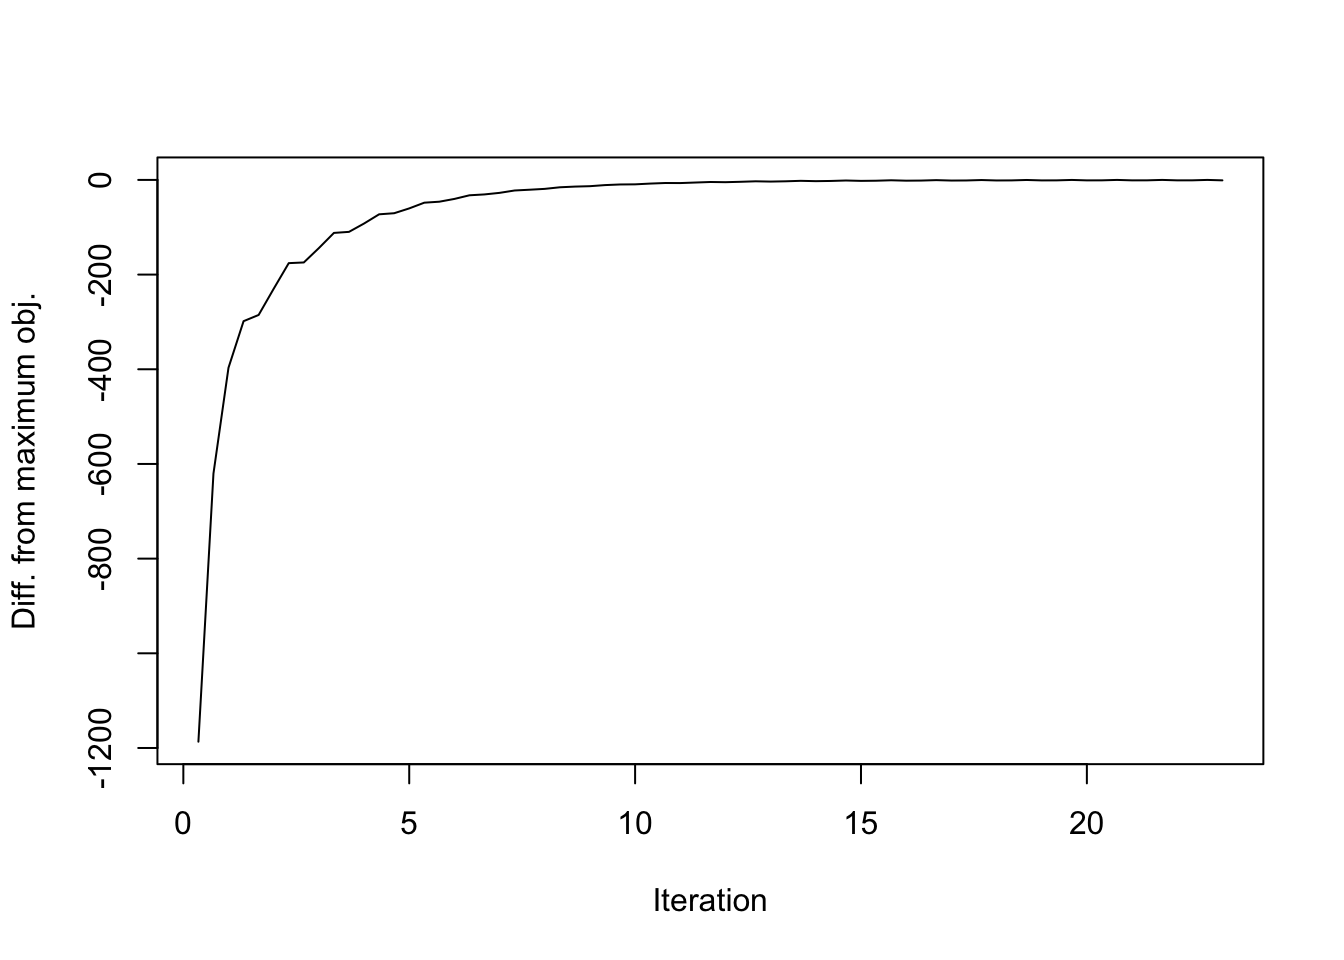
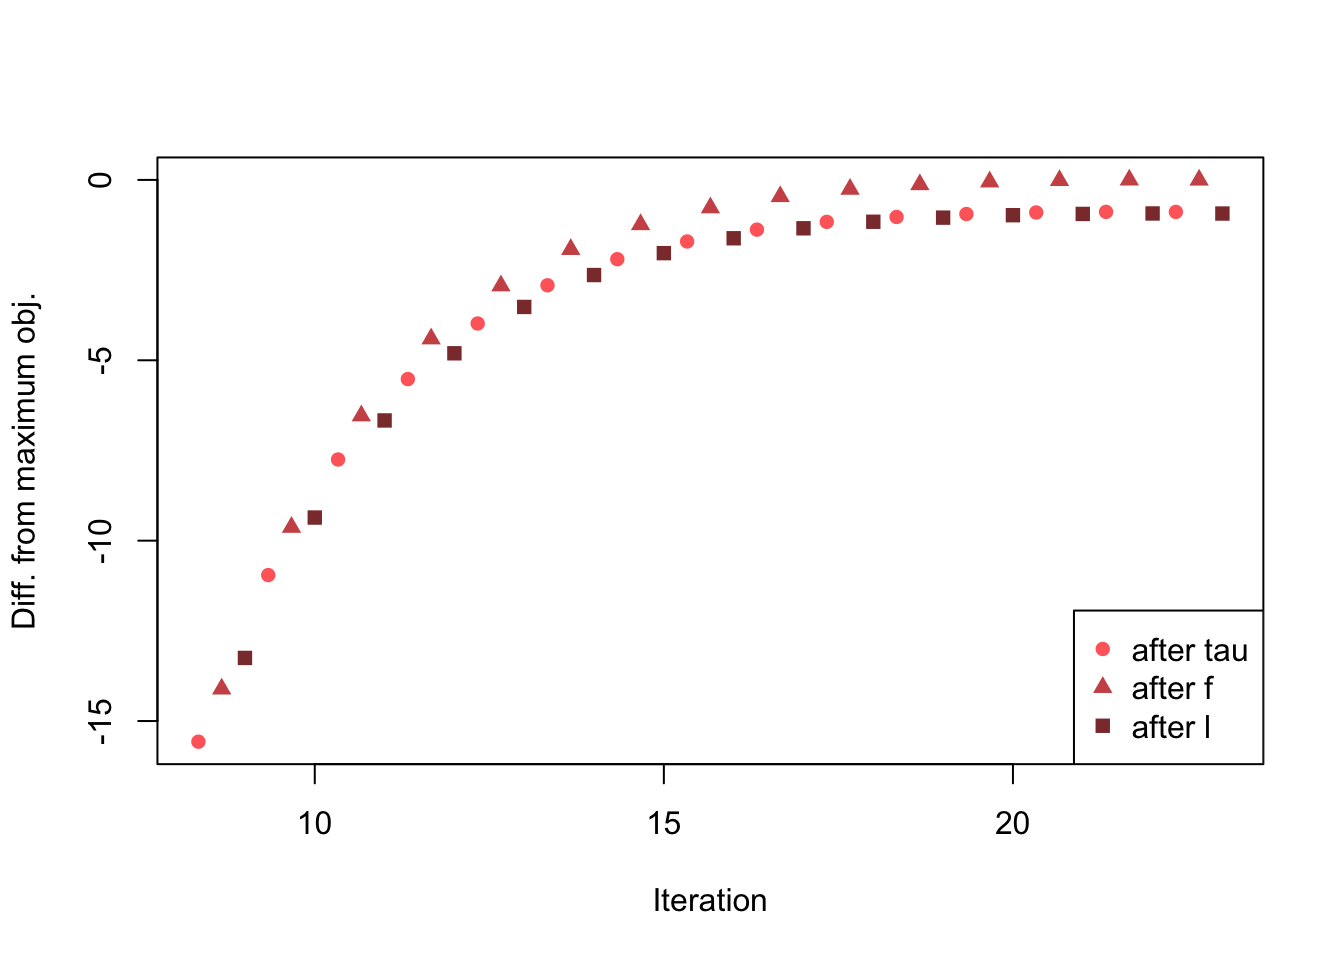
Build site.

diff --git a/docs/objective.html b/docs/objective.html
@@ -12,7 +12,7 @@
 <meta name="author" content="Jason Willwerscheid" />
 
 
-<title>Decreases in the Objective Function</title>
+<title>Decreases in the FLASH objective function</title>
 
 <script src="site_libs/jquery-1.11.3/jquery.min.js"></script>
 <meta name="viewport" content="width=device-width, initial-scale=1" />
@@ -310,14 +310,14 @@ div.section {
 
 
 
-<h1 class="title toc-ignore">Decreases in the Objective Function</h1>
+<h1 class="title toc-ignore">Decreases in the FLASH objective function</h1>
 <h4 class="author"><em>Jason Willwerscheid</em></h4>
 <h4 class="date"><em>7/14/2018</em></h4>
 
 </div>
 
 
-<p><strong>Last updated:</strong> 2018-07-16</p>
+<p><strong>Last updated:</strong> 2018-07-20</p>
 <strong>workflowr checks:</strong> <small>(Click a bullet for more information)</small>
 <ul>
 <li>
@@ -341,7 +341,7 @@ div.section {
 </details>
 </li>
 <li>
-<p><details> <summary> <strong style="color:blue;">✔</strong> <strong>Repository version:</strong> <a href="https://github.com/willwerscheid/FLASHvestigations/tree/055d5723d07ea68bc92863c501b728048beb0aed" target="_blank">055d572</a> </summary></p>
+<p><details> <summary> <strong style="color:blue;">✔</strong> <strong>Repository version:</strong> <a href="https://github.com/willwerscheid/FLASHvestigations/tree/7a2c0bada83c8f232dd58ee3f0217a98cca87154" target="_blank">7a2c0ba</a> </summary></p>
 Great! You are using Git for version control. Tracking code development and connecting the code version to the results is critical for reproducibility. The version displayed above was the version of the Git repository at the time these results were generated. <br><br> Note that you need to be careful to ensure that all relevant files for the analysis have been committed to Git prior to generating the results (you can use <code>wflow_publish</code> or <code>wflow_git_commit</code>). workflowr only checks the R Markdown file, but you know if there are other scripts or data files that it depends on. Below is the status of the Git repository when the results were generated:
 <pre><code>
 Ignored files:
@@ -350,6 +350,9 @@ Ignored files:
     Ignored:    .Rproj.user/
     Ignored:    docs/.DS_Store
     Ignored:    docs/figure/.DS_Store
+
+Unstaged changes:
+    Modified:   analysis/flash_em.Rmd
 
 </code></pre>
 Note that any generated files, e.g. HTML, png, CSS, etc., are not included in this status report because it is ok for generated content to have uncommitted changes. </details>
@@ -378,6 +381,40 @@ Message
 </tr>
 </thead>
 <tbody>
+<tr>
+<td style="text-align:left;">
+Rmd
+</td>
+<td style="text-align:left;">
+<a href="https://github.com/willwerscheid/FLASHvestigations/blob/7a2c0bada83c8f232dd58ee3f0217a98cca87154/analysis/objective.Rmd" target="_blank">7a2c0ba</a>
+</td>
+<td style="text-align:left;">
+Jason Willwerscheid
+</td>
+<td style="text-align:left;">
+2018-07-20
+</td>
+<td style="text-align:left;">
+wflow_publish(“analysis/objective.Rmd”)
+</td>
+</tr>
+<tr>
+<td style="text-align:left;">
+html
+</td>
+<td style="text-align:left;">
+<a href="https://cdn.rawgit.com/willwerscheid/FLASHvestigations/456972ed5490a92bcc8af1a9916cdbf3f32d9711/docs/objective.html" target="_blank">456972e</a>
+</td>
+<td style="text-align:left;">
+Jason Willwerscheid
+</td>
+<td style="text-align:left;">
+2018-07-16
+</td>
+<td style="text-align:left;">
+Build site.
+</td>
+</tr>
 <tr>
 <td style="text-align:left;">
 Rmd
@@ -506,8 +543,8 @@ wflow_publish(“analysis/objective.Rmd”)
 <h2>Introduction</h2>
 <p>Here I begin to look into why the FLASH objective function can decrease after an iteration.</p>
 </div>
-<div id="illustration-of-problem" class="section level2">
-<h2>Illustration of problem</h2>
+<div id="example" class="section level2">
+<h2>Example</h2>
 <p>I’m using the “strong” tests from the MASH paper GTEx dataset. The first problem appears when fitting the fourth factor. Notice that in the final iteration, the objective decreases by a very small amount and a warning is displayed.</p>
 <pre class="r"><code># devtools::install_github(&quot;stephenslab/flashr&quot;, ref=&quot;trackObj&quot;)
 devtools::load_all(&quot;/Users/willwerscheid/GitHub/flashr&quot;)</code></pre>
@@ -557,9 +594,9 @@ more details.</code></pre>
 <pre><code>objective from keeping factor:-1297148.033256</code></pre>
 <pre><code>nullcheck complete, objective:-1297148.033256</code></pre>
 </div>
-<div id="analysis" class="section level2">
-<h2>Analysis</h2>
-<p>A more granular tracking of the objective function reveals a larger problem. Recall that there are three steps in each iteration: updating the precision matrix, updating the factors (via the prior <span class="math inline">\(g_f\)</span>), and updating the loadings (via <span class="math inline">\(g_l\)</span>). Plotting the objective after each step rather than each iteration reveals a sawtooth pattern. (See branch <code>trackObj</code>, file <code>r1_opt.R</code> for the code used to obtain these results.)</p>
+<div id="illustration-of-problem" class="section level2">
+<h2>Illustration of problem</h2>
+<p>A more granular tracking of the objective function reveals a larger problem. Recall that there are three steps in each iteration: updating the precision matrix, updating the factors (via the prior <span class="math inline">\(g_f\)</span>), and updating the loadings (via <span class="math inline">\(g_l\)</span>). Plotting the objective after each step rather than each iteration reveals a sawtooth pattern. I discard the first 8 iterations in order to zoom in on the problem area. (See branch <code>trackObj</code>, file <code>r1_opt.R</code> for the code used to obtain these results.)</p>
 <pre class="r"><code>obj_data &lt;- as.vector(rbind(res$obj[[1]]$after_tau,
                             res$obj[[1]]$after_f,
                             res$obj[[1]]$after_l))
@@ -569,7 +606,17 @@ iter &lt;- 1:length(obj_data) / 3
 
 plt_xlab = &quot;Iteration&quot;
 plt_ylab = &quot;Diff. from maximum obj.&quot;
-plot(iter, obj_data, type=&#39;l&#39;, xlab=plt_xlab, ylab=plt_ylab)</code></pre>
+# plot(iter, obj_data, type=&#39;l&#39;, xlab=plt_xlab, ylab=plt_ylab)
+
+obj_data &lt;- obj_data[-(1:24)]
+iter &lt;- iter[-(1:24)]
+plt_colors &lt;- c(&quot;indianred1&quot;, &quot;indianred3&quot;, &quot;indianred4&quot;)
+plt_pch &lt;- c(16, 17, 15)
+
+plot(iter, obj_data, col=plt_colors, pch=plt_pch,
+     xlab=plt_xlab, ylab=plt_ylab)
+legend(&quot;bottomright&quot;, c(&quot;after tau&quot;, &quot;after f&quot;, &quot;after l&quot;),
+       col=plt_colors, pch=plt_pch)</code></pre>
 <p><img src="figure/objective.Rmd/plot-1.png" width="672" style="display: block; margin: auto;" /></p>
 <details> <summary><em>Expand here to see past versions of plot-1.png:</em></summary>
 <table style="border-collapse:separate; border-spacing:5px;">
@@ -612,96 +659,33 @@ Jason Willwerscheid
 </tbody>
 </table>
 <p></details></p>
-<p>Discarding the first 8 iterations in order to zoom in on the problem area:</p>
-<pre class="r"><code>obj_data &lt;- obj_data[-(1:24)]
-iter &lt;- iter[-(1:24)]
-plt_colors &lt;- c(&quot;indianred1&quot;, &quot;indianred3&quot;, &quot;indianred4&quot;)
-plt_pch &lt;- c(16, 17, 15)
-
-plot(iter, obj_data, col=plt_colors, pch=plt_pch,
-     xlab=plt_xlab, ylab=plt_ylab)
-legend(&quot;bottomright&quot;, c(&quot;after tau&quot;, &quot;after f&quot;, &quot;after l&quot;),
-       col=plt_colors, pch=plt_pch)</code></pre>
-<p><img src="figure/objective.Rmd/plot2-1.png" width="672" style="display: block; margin: auto;" /></p>
-<details> <summary><em>Expand here to see past versions of plot2-1.png:</em></summary>
-<table style="border-collapse:separate; border-spacing:5px;">
-<thead>
-<tr>
-<th style="text-align:left;">
-Version
-</th>
-<th style="text-align:left;">
-Author
-</th>
-<th style="text-align:left;">
-Date
-</th>
-</tr>
-</thead>
-<tbody>
-<tr>
-<td style="text-align:left;">
-<a href="https://github.com/willwerscheid/FLASHvestigations/blob/7db12a1efed12474ff15a3cf6c111dbf946d7107/docs/figure/objective.Rmd/plot2-1.png" target="_blank">7db12a1</a>
-</td>
-<td style="text-align:left;">
-Jason Willwerscheid
-</td>
-<td style="text-align:left;">
-2018-07-16
-</td>
-</tr>
-<tr>
-<td style="text-align:left;">
-<a href="https://github.com/willwerscheid/FLASHvestigations/blob/0b30bef854ef3b0dbd073845cd63e93ca75cef56/docs/figure/objective.Rmd/plot2-1.png" target="_blank">0b30bef</a>
-</td>
-<td style="text-align:left;">
-Jason Willwerscheid
-</td>
-<td style="text-align:left;">
-2018-07-15
-</td>
-</tr>
-</tbody>
-</table>
-<p></details></p>
+</div>
+<div id="analysis" class="section level2">
+<h2>Analysis</h2>
 <p>I backtrack to just before the “bad” update.</p>
-<pre class="r"><code>res2 &lt;- flash_add_greedy(strong, Kmax=4, stopAtObj=-1297148.032)</code></pre>
+<pre class="r"><code>res2 &lt;- flash_add_greedy(strong, Kmax=4, stopAtObj = -1297148.032)</code></pre>
 <pre><code>fitting factor/loading 1</code></pre>
 <pre><code>fitting factor/loading 2</code></pre>
 <pre><code>fitting factor/loading 3</code></pre>
 <pre><code>fitting factor/loading 4</code></pre>
 <pre class="r"><code>flash_get_objective(strong, res2$f) - flash_get_objective(strong, res$f)</code></pre>
 <pre><code>[1] 0.002265139</code></pre>
-<p>So at this point, the objective is indeed better than for the flash object attained above. The component parts of the objective are:</p>
+<p>So at this point, the objective is indeed better than for the flash fit obtained above.</p>
+<p>Now, I update the precision.</p>
 <pre class="r"><code>fl &lt;- res2$f
 data &lt;- flash_set_data(strong)
 k &lt;- 4
-
-KL_l &lt;- fl$KL_l[[k]]
-KL_f &lt;- fl$KL_f[[k]]
-loglik &lt;- flashr:::e_loglik(data, fl)
-list(KL_l = KL_l, KL_f = KL_f, loglik = loglik)</code></pre>
-<pre><code>$KL_l
-[1] -8324.404
-
-$KL_f
-[1] -128.9907
-
-$loglik
-[1] -1227371</code></pre>
-<p>First I update the precision (I follow the code in <code>r1_opt</code>). Only the “loglik” component is affected by this update:</p>
-<pre class="r"><code>init_fl = fl
-init_KL_l = KL_l
-init_KL_f = KL_f
-init_loglik = loglik
+init_fl = fl
 
 R2 = flashr:::flash_get_R2(data, fl)
 fl$tau = flashr:::compute_precision(R2, data$missing, 
                                     &quot;by_column&quot;, data$S)
-flashr:::e_loglik(data, fl) - init_loglik</code></pre>
+flash_get_objective(strong, fl) - flash_get_objective(strong, init_fl)</code></pre>
 <pre><code>[1] 0.04306088</code></pre>
-<p>So the overall objective indeed increases. Now I update the loadings (FLASH updates factors first, but the order of updates is not supposed to affect the monotonicity of the objective function).</p>
-<pre class="r"><code>s2 = 1/(fl$EF2[, k] %*% t(fl$tau))
+<p>So, as expected, the overall objective increases. Next I update the loadings (FLASH updates factors first, but the order of updates is not supposed to affect the monotonicity of the objective function).</p>
+<pre class="r"><code>last_fl = fl
+
+s2 = 1/(fl$EF2[, k] %*% t(fl$tau))
 s = sqrt(s2)
 Rk = flashr:::flash_get_Rk(data, fl, k)
 x = fl$EF[, k] %*% t(Rk * fl$tau) * s2
@@ -714,15 +698,14 @@ fl$EL[, k] = ebnm_l$postmean
 fl$EL2[, k] = ebnm_l$postmean2
 fl$gl[[k]] = ebnm_l$fitted_g
 fl$KL_l[[k]] = KL_l
-flash_get_objective(data, fl) - flash_get_objective(data, init_fl)</code></pre>
-<pre><code>[1] -0.1154427</code></pre>
-<p>So the objective has in fact gotten worse. And tightening the control parameters or changing the initialization for the <code>ebnm</code> function does not help matters. For example:</p>
+flash_get_objective(data, fl) - flash_get_objective(data, last_fl)</code></pre>
+<pre><code>[1] -0.1585035</code></pre>
+<p>So the objective has in fact gotten worse. And tightening the control parameters or changing the initialization for the <code>ebnm</code> function does not help matters. For example, tightening the tolerance parameter by adding <code>factr = 100</code> does not change anything:</p>
 <pre class="r"><code>s2 = 1/(fl$EF2[, k] %*% t(fl$tau))
 s = sqrt(s2)
 Rk = flashr:::flash_get_Rk(data, fl, k)
 x = fl$EF[, k] %*% t(Rk * fl$tau) * s2
-ebnm_l = flashr:::ebnm_pn(x, s, list(g=list(a=100),
-                                     control=list(factr=100)))
+ebnm_l = flashr:::ebnm_pn(x, s, list(control=list(factr=100)))
 KL_l = (ebnm_l$penloglik 
         - flashr:::NM_posterior_e_loglik(x, s, ebnm_l$postmean,
                                          ebnm_l$postmean2))
@@ -731,13 +714,13 @@ fl$EL[, k] = ebnm_l$postmean
 fl$EL2[, k] = ebnm_l$postmean2
 fl$gl[[k]] = ebnm_l$fitted_g
 fl$KL_l[[k]] = KL_l
-flash_get_objective(data, fl) - flash_get_objective(data, init_fl)</code></pre>
-<pre><code>[1] -0.1154426</code></pre>
+flash_get_objective(data, fl) - flash_get_objective(data, last_fl)</code></pre>
+<pre><code>[1] -0.1585035</code></pre>
 </div>
-<div id="conclusions-and-questions" class="section level2">
-<h2>Conclusions and questions</h2>
+<div id="conclusions" class="section level2">
+<h2>Conclusions</h2>
 <p>The decrease appears too large to be explained by numerical error. Indeed, it would be very surprising to me if <code>EL</code> and <code>EL2</code> could only be trusted to five digits or so (as would have to be the case to produce errors of the above magnitude).</p>
-<p>More seriously, the sawtooth pattern depicted above points to a more regular feature of the optimization. Indeed, it appears that all of the triangles (objectives after updating factors) are biased upwards and all of the squares (objectives after updating loadings) are biased slightly downwards.</p>
+<p>More seriously, the sawtooth pattern depicted above points to a more regular feature of the optimization. Indeed, it appears that all of the triangles (objectives after updating factors) are biased upwards and, perhaps, all of the squares (objectives after updating loadings) are biased slightly downwards.</p>
 <p>The theory appears to be sound, so what is going on here?</p>
 </div>
 <div id="session-information" class="section level2">
